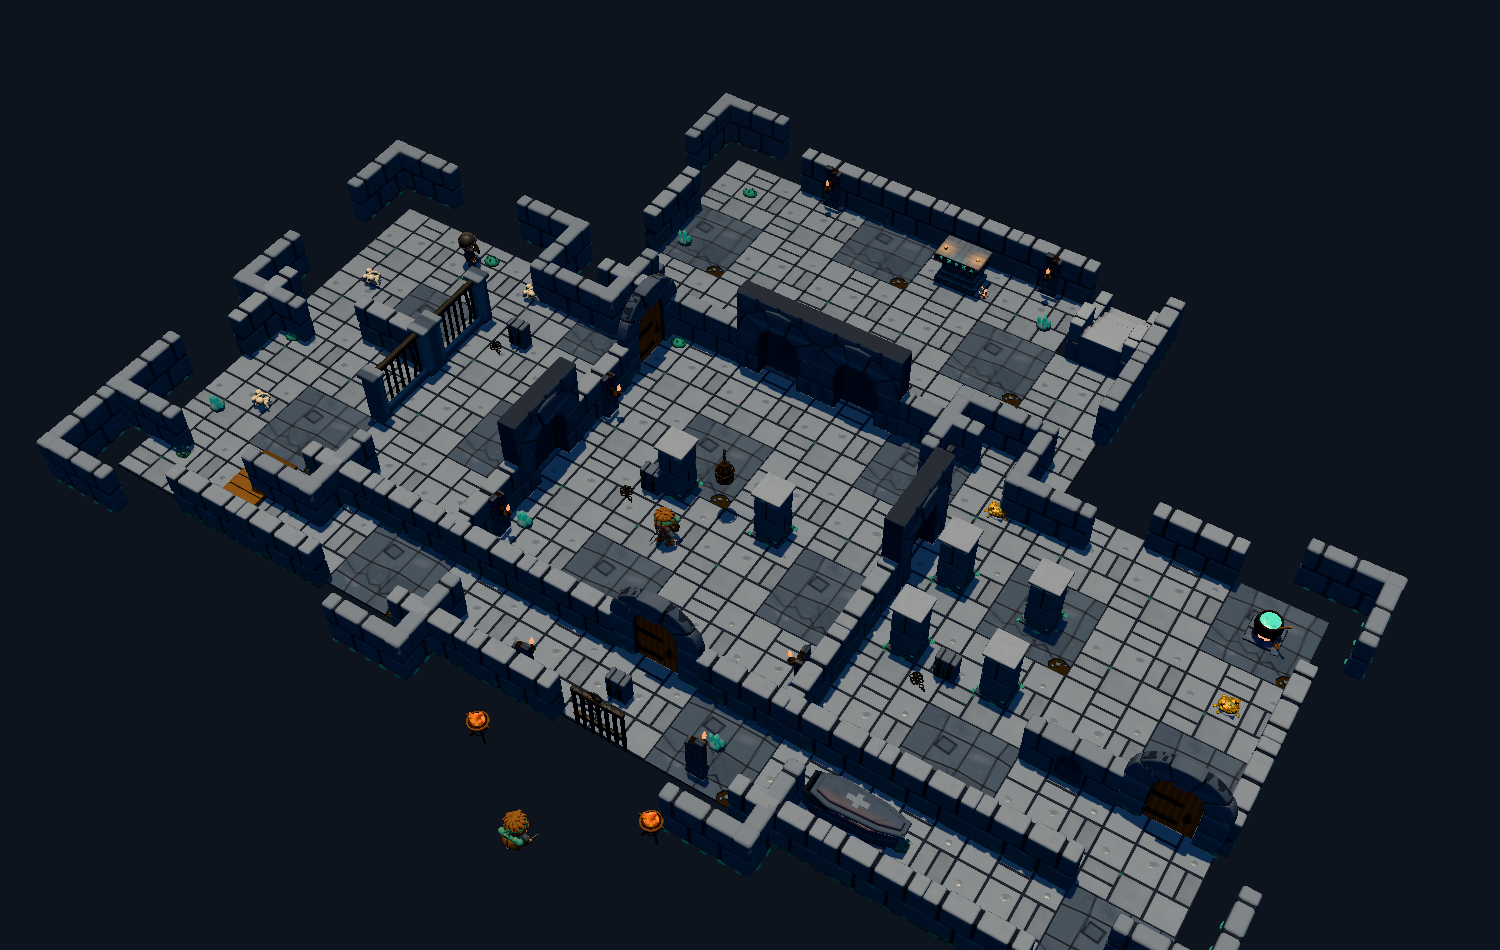
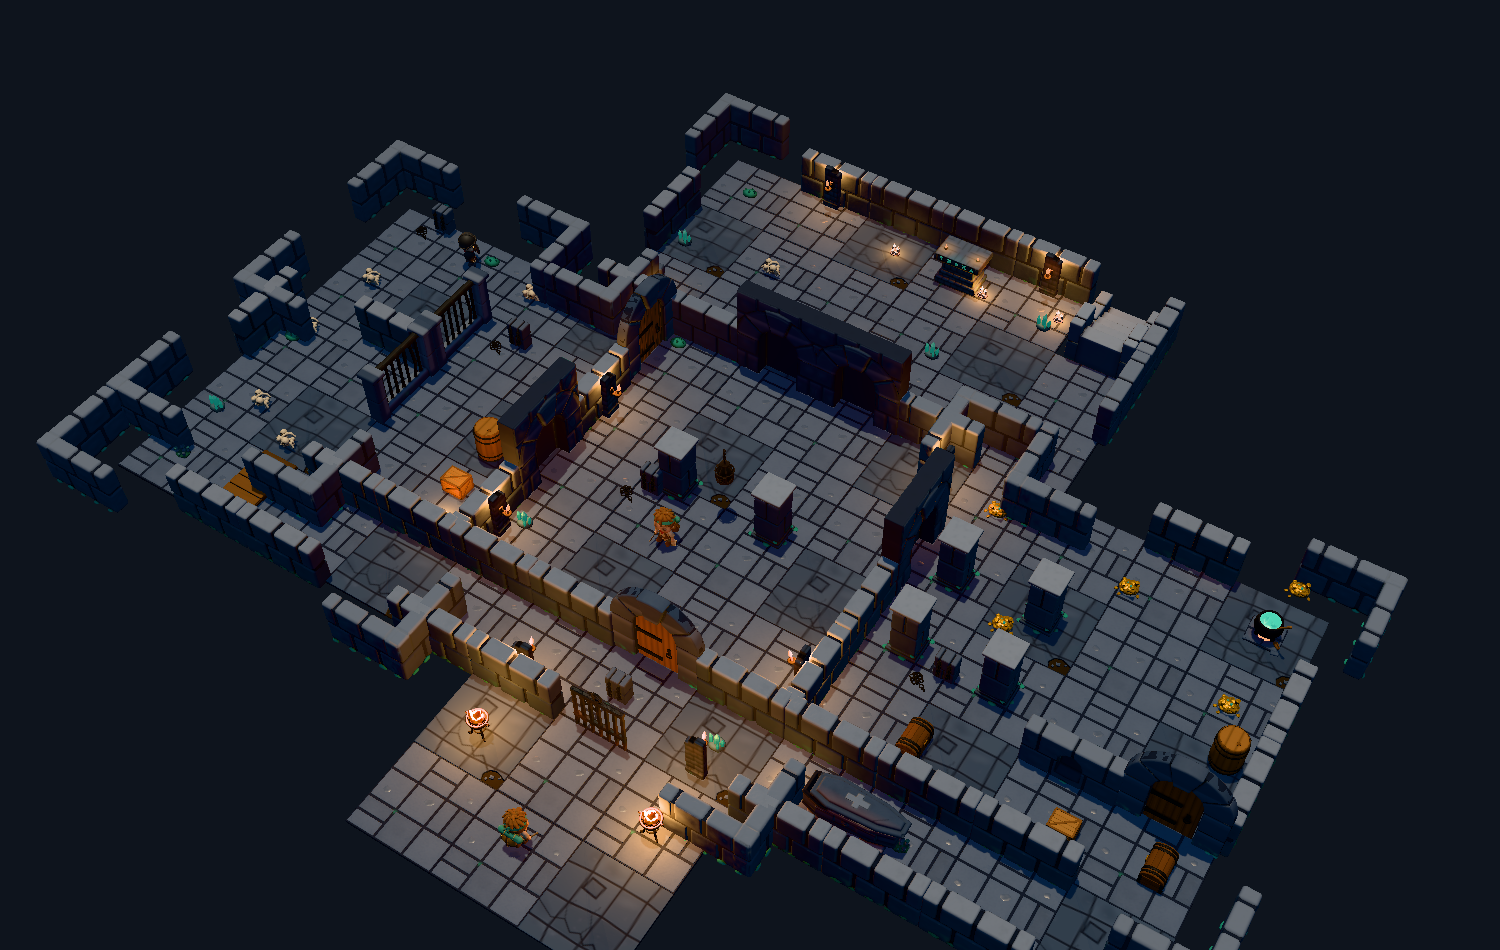
feat(maps): Sunken Vault dungeon map at 7.5
- Floor and floor-cracked slab tops one step darker, toward the slate
  canon (#4a5d75); shapes unchanged. One typed guard in floor-cracked.
- A floor run outside the gate, so the braziers and the adventurer stand
  on ground; dressing tells one story per room. 221 pieces (was 191).
- Dark maps get a warm point light at each torch sconce, brazier, and
  candle cluster, so the torches cast pools as in the mockup.
Agent: forge-sonnet-medium; orchestrator lighting.

diff --git a/scenes/sunken-vault.ts b/scenes/sunken-vault.ts
@@ -81,6 +81,12 @@ export function sunkenVaultPlaces(): Place[] {
   { asset: 'floor-cracked', at: [11, 0, 3] },
   { asset: 'floor', at: [11, 0, 5] },
   { asset: 'floor-cracked', at: [11, 0, 7] },
+  { asset: 'floor-cracked', at: [-1, 0, 9] },
+  { asset: 'floor', at: [-1, 0, 11] },
+  { asset: 'floor', at: [1, 0, 9] },
+  { asset: 'floor', at: [1, 0, 11] },
+  { asset: 'floor', at: [3, 0, 9] },
+  { asset: 'floor-cracked', at: [3, 0, 11] },
   { asset: 'stairs', at: [5, 0, -7], yaw: 180 },
   { asset: 'wall', at: [-12, 0, 3], yaw: 90 },
   { asset: 'wall', at: [-9, 0, 8] },
@@ -158,8 +164,8 @@ export function sunkenVaultPlaces(): Place[] {
   { asset: 'torch-sconce', at: [3, 0.09, 7.7], yaw: 180 },
   { asset: 'torch-sconce', at: [-3, 0.09, -7.7] },
   { asset: 'torch-sconce', at: [3, 0.09, -7.7] },
-  { asset: 'brazier', at: [-1, 0, 9.2] },
-  { asset: 'brazier', at: [3, 0, 9.2] },
+  { asset: 'brazier', at: [-1, 0.09, 9.2] },
+  { asset: 'brazier', at: [3, 0.09, 9.2] },
   { asset: 'hanging-cage', at: [0, 0.09, 2] },
   { asset: 'sarcophagus', at: [6, 0.09, 7] },
   { asset: 'candle-cluster', at: [4.6, 0.09, 7] },
@@ -193,11 +199,31 @@ export function sunkenVaultPlaces(): Place[] {
   { asset: 'mushroom-cluster', at: [-7, 0.09, 7.6] },
   { asset: 'mushroom-cluster', at: [7, 0.09, 7] },
   { asset: 'mushroom-cluster', at: [11, 0.09, 7.5] },
+  { asset: 'chains', at: [-11, 0.09, -1.6] },
+  { asset: 'bone-pile', at: [-11.2, 0.09, 2.6] },
+  { asset: 'bone-pile', at: [-9.2, 0.09, 5.6] },
+  { asset: 'barrel', at: [-5.2, 0.09, 3.4] },
+  { asset: 'crate', at: [-5.2, 0.09, 4.6] },
+  { asset: 'candle-cluster', at: [-4.8, 0.09, -2.6] },
+  { asset: 'treasure-chest', at: [11.2, 0.09, 5], yaw: 270 },
+  { asset: 'treasure-chest', at: [6.2, 0.09, 5], yaw: 90 },
+  { asset: 'gold-pile', at: [8.2, 0.09, -0.6] },
+  { asset: 'gold-pile', at: [6.4, 0.09, 1.6] },
+  { asset: 'gold-pile', at: [11.2, 0.09, -2.4] },
+  { asset: 'crate', at: [9.4, 0.09, 5.2] },
+  { asset: 'barrel', at: [11.4, 0.09, 2.2] },
+  { asset: 'candle-cluster', at: [9.4, 0.09, -2.6] },
+  { asset: 'candle-cluster', at: [3.6, 0.09, -7] },
+  { asset: 'candle-cluster', at: [-0.8, 0.09, -7] },
+  { asset: 'candle-cluster', at: [0, 0.09, -3.4] },
+  { asset: 'bone-pile', at: [-3, 0.09, -4.8] },
+  { asset: 'mushroom-cluster', at: [4, 0.09, -3.6] },
+  { asset: 'crystal-cluster', at: [1.6, 0.09, -4.4] },
   { asset: 'walkway', at: [-9, 0.09, 7] },
   { asset: 'moss-tuft', at: [-11.4, 0.09, 3] },
   { asset: 'moss-tuft', at: [-9, 0.09, -1.5] },
   { asset: 'adventurer', at: [-0.6, 0.09, 3.4] },
   { asset: 'skeleton', at: [-9.4, 0.09, -1.2], yaw: 120 },
-  { asset: 'adventurer', at: [1, 0, 10.6], yaw: 180 },
+  { asset: 'adventurer', at: [1, 0.09, 10.6], yaw: 180 },
   ];
 }

diff --git a/assets/floor-cracked.ts b/assets/floor-cracked.ts
@@ -26,20 +26,20 @@ const GROUT = rgb('#2a3547');
 const GROUT_DEEP = rgb('#222b3a');
 const SLAB_DARK = rgb('#3d4e64');
 const SLAB_LIGHT = rgb('#556a82');
-const WORN = rgb('#7a8ba0');
-const EDGE_LIGHT = rgb('#7d90a6');
+const WORN = rgb('#5d7088');
+const EDGE_LIGHT = rgb('#62768e');
 const DAMP = rgb('#3a4a5f');
-const SHEEN = rgb('#8fa3b8');
+const SHEEN = rgb('#6e829a');
 const PATCH = rgb('#46576d');
 const CRACK = rgb('#1e2634');
 const SIDE = rgb('#273245');
 const SIDE_DEEP = rgb('#1d2532');
-const BREAK_PALE = rgb('#6e8095');
+const BREAK_PALE = rgb('#5a6d84');
 const BREAK_DEEP = rgb('#4a5b72');
 const SOIL = rgb('#2a2015');
 const SOIL_DEEP = rgb('#1d150d');
 const SOIL_SPECK = rgb('#463524');
-const CHIP_PALE = rgb('#8496ab');
+const CHIP_PALE = rgb('#667a91');
 
 const clamp01 = (t: number) => Math.min(1, Math.max(0, t));
 const smoothstep = (a: number, b: number, t: number) => {
@@ -97,7 +97,10 @@ function cellDist(x: number, z: number, i: number, j: number): number {
   let d = Infinity;
   const line = (segs: Pt[][] | undefined) => {
     if (!segs) return;
-    for (const [[ax, az], [bx, bz]] of segs) d = Math.min(d, segDist(x, z, ax, az, bx, bz));
+    for (const seg of segs) {
+      const a = seg[0], b = seg[1];
+      if (a && b) d = Math.min(d, segDist(x, z, a[0], a[1], b[0], b[1]));
+    }
   };
   if (i > 0) line(VLINE[i]);
   if (i < 3) line(VLINE[i + 1]);

diff --git a/src/scene/main.ts b/src/scene/main.ts
@@ -139,6 +139,22 @@ async function loadAsset(name: string): Promise<THREE.Object3D | null> {
   return gltf.scene;
 }
 
+/** Warm point lights at the flames of dark maps, so torches cast light pools as in the mockups. */
+const FLAMES: Record<string, { intensity: number; range: number }> = {
+  'torch-sconce': { intensity: 8, range: 7 },
+  brazier: { intensity: 10, range: 8 },
+  'candle-cluster': { intensity: 2, range: 3 },
+};
+
+function addFlame(source: THREE.Object3D, place: Place): void {
+  const flame = FLAMES[place.asset];
+  if (!flame) return;
+  const top = new THREE.Box3().setFromObject(source).max.y * (place.scale ?? 1);
+  const light = new THREE.PointLight(0xffa04a, flame.intensity, flame.range, 2);
+  light.position.set(place.at[0], place.at[1] + top * 0.9, place.at[2]);
+  scene.add(light);
+}
+
 function addPlace(source: THREE.Object3D, place: Place): void {
   // Skinned rigs need SkeletonUtils.clone: Object3D.clone leaves the skinned
   // mesh bound to the source skeleton, so rigged figures never render.
@@ -213,6 +229,7 @@ async function build(): Promise<void> {
       continue;
     }
     addPlace(source, place);
+    if (dark) addFlame(source, place);
     shown += 1;
   }
   if (sceneName === 'hamlet' || sceneName === 'village') addTerrainUnderlays(places);

diff --git a/assets/floor.ts b/assets/floor.ts
@@ -38,8 +38,8 @@ const BEVEL = 0.01; // soft edge on every slab
 // Palette (dungeon contract)
 const DEEP = rgb('#2a3547'); // grout, slab feet, cracks
 const MID = rgb('#4a5d75'); // slab sides and shaded tops
-const PALE = rgb('#7a8ba0'); // worn slab tops
-const PALE_LIT = rgb('#8b9caf'); // worn-smooth highlights
+const PALE = rgb('#5d7088'); // worn slab tops
+const PALE_LIT = rgb('#6a7d95'); // worn-smooth highlights
 const WET = rgb('#5a6c82'); // wet stone: darker, glossier
 const MOSS = rgb('#3f8a7a'); // teal-green seasoning in the grout
 

diff --git a/docs/dungeon-mockups/map.md b/docs/dungeon-mockups/map.md
@@ -68,8 +68,8 @@ Total wall-system pieces: 60.
 | door | 3 | gatehouse→hall, hall→cell block guard door, treasury→crypt |
 | gate | 1 | south entry (c7) |
 | cell-bars | 2 | barred fronts of the two cells |
-| floor | 58 | every zone tile except the stairs tile and cracked tiles |
-| floor-cracked | 19 | every 4th tile ((c+2r) mod 4 = 0) |
+| floor | 62 | every zone tile except the stairs tile and cracked tiles |
+| floor-cracked | 21 | every 4th tile ((c+2r) mod 4 = 0) |
 | stairs | 1 | c9 r1, rising out through the north breach |
 | pillar | 6 | hall pair (±1.2, z=2), treasury colonnade ×4 |
 | torch-sconce | 8 | hall ×4, gatehouse ×2, sanctum ×2 |
@@ -77,18 +77,18 @@ Total wall-system pieces: 60.
 | hanging-cage | 1 | hall center, between the pillars |
 | sarcophagus | 1 | crypt (c11-12, r7) |
 | altar | 1 | sanctum axis (c7, r1) |
-| candle-cluster | 3 | altar, crypt, cell-block guard post |
+| candle-cluster | 8 | altar, crypt, cell-block guard post |
 | cauldron | 1 | treasury NE |
-| gold-pile | 3 | treasury ×2, cell-block guard post |
-| chains | 4 | bars frontage, gate, hall pillar, treasury pillar |
-| bone-pile | 3 | both cells, guard corridor |
+| gold-pile | 6 | treasury ×2, cell-block guard post |
+| chains | 5 | bars frontage, gate, hall pillar, treasury pillar |
+| bone-pile | 6 | both cells, guard corridor |
 | rubble | 3 | sanctum SW, treasury E, guard corridor |
-| crystal-cluster | 5 | sanctum ×2, hall SW, gatehouse E, SW cell |
-| mushroom-cluster | 4 | flooded strips ×4 |
+| crystal-cluster | 6 | sanctum ×2, hall SW, gatehouse E, SW cell |
+| mushroom-cluster | 5 | flooded strips ×4 |
 | moss-tuft | 8 | scattered wall bases ×8 |
 | walkway | 1 | jetty into the west flooded strip (c2, r8) |
 
 Reconciliation with the old open problem (fit-check.md): the designed map
 replaces the hand-counted zone union. Wall plan derives from cell edges, so
 slots, corners, and pieces reconcile by construction: 60 wall-system
-pieces, 77 floor tiles, 195 total placed instances.
+pieces, 77 floor tiles, 221 total placed instances.
